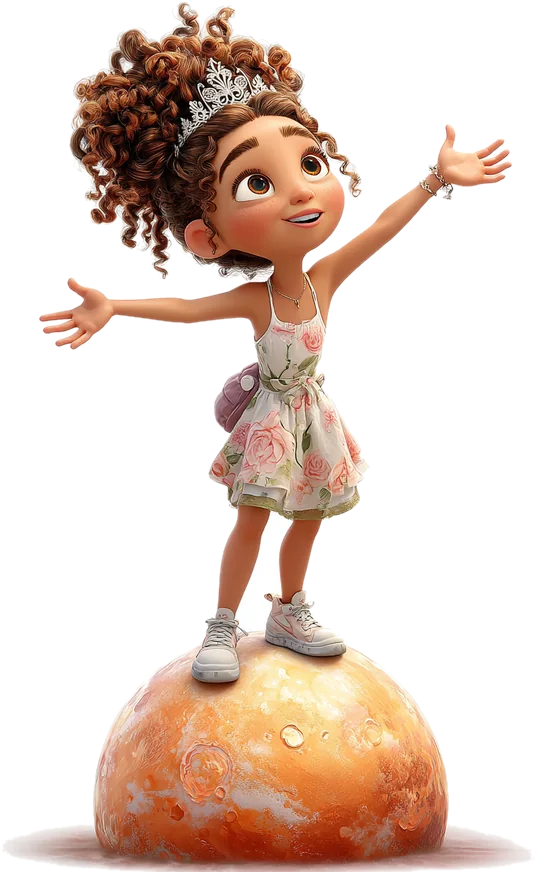
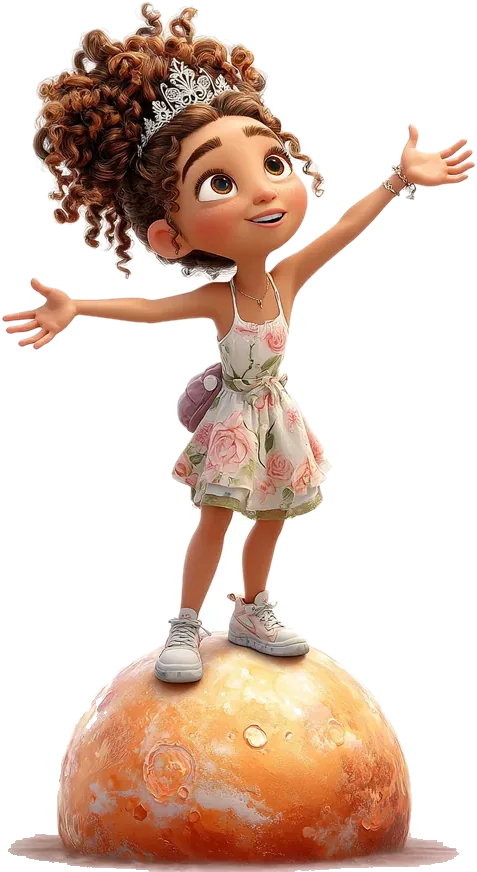
Auditoria: dois bugs corrigidos, codigo morto removido, chegada em Netuno
Bugs achados testando:
- Sair do quiz nos 2 segundos entre acertar e a proxima rodada jogava ela
  na tela de resultado depois, ja fora do jogo. O agendamento agora e
  cancelado ao trocar de tela e checa se o quiz ainda esta no ar.
- Contador de estrelinhas virava "NaN" se o dado gravado no aparelho
  estivesse corrompido. Agora cai pra zero.

Limpeza:
- orbeVetor (o desenhador de planetas em SVG) saiu: os planetas sao
  imagem desde a fase 3
- Os 4 sprites de icone da home sairam: os cartoes usam foto agora
- lara-espaco.webp estava gerada e sem uso — virou a chegada em Netuno,
  ela comemorando em cima de um planeta no fim da Viagem

Changed region(s): [[0.0, 0.0, 0.9979, 1.0], [0.6164, 0.7431, 0.9979, 1.0]]

diff --git a/js/data-espaco.js b/js/data-espaco.js
@@ -121,51 +121,6 @@ var Espaco = (function () {
            'width="' + tam + '" height="' + tam + '" draggable="false" loading="eager">';
   }
 
-  /* --- versão vetorial antiga, guardada como reserva --- */
-  function orbeVetor(astro, tam) {
-    var u = 'a' + (++seq);
-    var brilho = astro.estrela
-      ? '<circle cx="60" cy="60" r="56" fill="url(#glow' + u + ')"/>'
-      : '';
-    var defs = '' +
-      '<clipPath id="cp' + u + '"><circle cx="60" cy="60" r="40"/></clipPath>' +
-      '<radialGradient id="luz' + u + '" cx="33%" cy="27%" r="80%">' +
-        '<stop offset="0" stop-color="#fff" stop-opacity=".45"/>' +
-        '<stop offset="55%" stop-color="#fff" stop-opacity="0"/></radialGradient>' +
-      '<radialGradient id="bor' + u + '" cx="50%" cy="50%" r="50%">' +
-        '<stop offset="62%" stop-color="#000" stop-opacity="0"/>' +
-        '<stop offset="100%" stop-color="#04061A" stop-opacity="' + (astro.estrela ? '.10' : '.55') + '"/></radialGradient>' +
-      (astro.estrela
-        ? '<radialGradient id="glow' + u + '" cx="50%" cy="50%" r="50%">' +
-          '<stop offset="55%" stop-color="#FFD23F" stop-opacity=".55"/>' +
-          '<stop offset="100%" stop-color="#FF8A00" stop-opacity="0"/></radialGradient>'
-        : '');
-
-    var aneisAtras = '', aneisFrente = '';
-    if (astro.aneis) {
-      aneisAtras = '<g transform="rotate(-17 60 60)">' +
-        '<ellipse cx="60" cy="60" rx="57" ry="15" fill="none" stroke="#F0DDB4" stroke-width="7" opacity=".9"/>' +
-        '<ellipse cx="60" cy="60" rx="47" ry="12" fill="none" stroke="#C8A971" stroke-width="3" opacity=".85"/></g>';
-      aneisFrente = '<g transform="rotate(-17 60 60)" clip-path="url(#frente' + u + ')">' +
-        '<ellipse cx="60" cy="60" rx="57" ry="15" fill="none" stroke="#F7E8C6" stroke-width="7"/>' +
-        '<ellipse cx="60" cy="60" rx="47" ry="12" fill="none" stroke="#D8BC85" stroke-width="3"/></g>';
-      defs += '<clipPath id="frente' + u + '"><rect x="-10" y="60" width="140" height="70"/></clipPath>';
-    }
-    if (astro.aneisVerticais) {
-      aneisAtras = '<ellipse cx="60" cy="60" rx="12" ry="55" fill="none" stroke="#BFEFF6" stroke-width="2.5" opacity=".55" transform="rotate(8 60 60)"/>';
-    }
-
-    return '<svg viewBox="0 0 120 120" width="' + tam + '" height="' + tam + '" ' +
-             'xmlns="http://www.w3.org/2000/svg" role="img" aria-label="' + astro.nome + '">' +
-             '<defs>' + defs + '</defs>' + brilho + aneisAtras +
-             '<circle cx="60" cy="60" r="40" fill="' + astro.base + '"/>' +
-             '<g clip-path="url(#cp' + u + ')">' + astro.detalhe() + '</g>' +
-             '<circle cx="60" cy="60" r="40" fill="url(#luz' + u + ')"/>' +
-             '<circle cx="60" cy="60" r="40" fill="url(#bor' + u + ')"/>' +
-             aneisFrente +
-           '</svg>';
-  }
-
   /* Diâmetro real em km e quanto da altura do quadro a bola ocupa em cada
      arte — sem isso a proporção entre os planetas viraria mentira. */
   var REAIS = {
@@ -200,5 +155,5 @@ var Espaco = (function () {
     return null;
   }
 
-  return { ASTROS: ASTROS, REAIS: REAIS, DISTANCIAS: DISTANCIAS, orbe: orbe, orbeVetor: orbeVetor, porId: porId, comArtigo: comArtigo };
+  return { ASTROS: ASTROS, REAIS: REAIS, DISTANCIAS: DISTANCIAS, orbe: orbe, porId: porId, comArtigo: comArtigo };
 })();

diff --git a/index.html b/index.html
@@ -390,42 +390,6 @@
 <!-- sprites -->
 <svg width="0" height="0" style="position:absolute" aria-hidden="true" focusable="false">
   <defs>
-    <symbol id="mini-kid" viewBox="0 0 120 120">
-      <circle cx="60" cy="42" r="26" fill="#FFD9BE"/>
-      <path d="M32 46 C32 16 44 6 60 6 C76 6 88 16 88 46 C83 26 74 20 60 25 C46 30 36 32 32 46 Z" fill="#6B3E26"/>
-      <circle cx="50" cy="44" r="4" fill="#3A2A20"/><circle cx="70" cy="44" r="4" fill="#3A2A20"/>
-      <path d="M52 55q8 7 16 0" stroke="#3A2A20" stroke-width="3.5" fill="none" stroke-linecap="round"/>
-      <path d="M38 112 44 76a17 17 0 0 1 32 0l6 36Z" fill="#FF7BAC"/>
-      <circle cx="34" cy="86" r="7" fill="#FFD9BE"/><circle cx="86" cy="86" r="7" fill="#FFD9BE"/>
-    </symbol>
-    <symbol id="mini-planet" viewBox="0 0 120 120">
-      <circle cx="58" cy="58" r="32" fill="#F5A742"/>
-      <ellipse cx="58" cy="50" rx="24" ry="7" fill="#FFD08A" opacity=".55"/>
-      <ellipse cx="58" cy="68" rx="27" ry="6" fill="#D9762B" opacity=".5"/>
-      <ellipse cx="58" cy="60" rx="52" ry="13" fill="none" stroke="#FFE9B0" stroke-width="6" opacity=".9" transform="rotate(-18 58 60)"/>
-      <circle cx="98" cy="22" r="4" fill="#FFF3C4"/><circle cx="18" cy="26" r="3" fill="#FFF3C4"/>
-      <circle cx="24" cy="98" r="3.5" fill="#FFF3C4"/>
-    </symbol>
-    <symbol id="mini-letras" viewBox="0 0 120 120">
-      <rect x="6" y="34" width="34" height="34" rx="9" fill="#12A87E"/>
-      <rect x="43" y="26" width="34" height="34" rx="9" fill="#2ED3A3"/>
-      <rect x="80" y="34" width="34" height="34" rx="9" fill="#12A87E"/>
-      <text x="23" y="59" font-size="26" font-weight="900" text-anchor="middle" fill="#fff">A</text>
-      <text x="60" y="51" font-size="26" font-weight="900" text-anchor="middle" fill="#08543F">B</text>
-      <text x="97" y="59" font-size="26" font-weight="900" text-anchor="middle" fill="#fff">C</text>
-      <rect x="24" y="82" width="72" height="9" rx="4.5" fill="#fff" opacity=".55"/>
-      <rect x="38" y="97" width="44" height="9" rx="4.5" fill="#fff" opacity=".35"/>
-    </symbol>
-    <symbol id="mini-velha" viewBox="0 0 120 120">
-      <g stroke="#fff" stroke-width="7" stroke-linecap="round" opacity=".65">
-        <path d="M46 16 v88 M74 16 v88 M16 46 h88 M16 74 h88"/>
-      </g>
-      <g stroke="#FFF3B0" stroke-width="8" stroke-linecap="round" fill="none">
-        <path d="M23 23 L39 39 M39 23 L23 39"/>
-        <circle cx="83" cy="83" r="11"/>
-        <path d="M83 23 L99 39 M99 23 L83 39"/>
-      </g>
-    </symbol>
   </defs>
 </svg>
 

diff --git a/js/game.js b/js/game.js
@@ -3,6 +3,7 @@
    ========================================================= */
 var Jogo = (function () {
   var estado = null;
+  var proximaRodada = null;
 
   /* ---------- utilidades ---------- */
   function $(s, raiz) { return (raiz || document).querySelector(s); }
@@ -16,7 +17,10 @@ var Jogo = (function () {
   }
 
   /* ---------- estrelinhas ---------- */
-  function totalEstrelas() { return parseInt(localStorage.getItem('lara.estrelas') || '0', 10); }
+  function totalEstrelas() {
+    var n = parseInt(localStorage.getItem('lara.estrelas'), 10);
+    return (isNaN(n) || n < 0) ? 0 : n;      /* dado corrompido não vira "NaN" na tela */
+  }
   function guardarEstrela() {
     var n = totalEstrelas() + 1;
     localStorage.setItem('lara.estrelas', String(n));
@@ -273,7 +277,10 @@ var Jogo = (function () {
       confete(estado.errouNaRodada ? 10 : 20);
       if (!estado.errouNaRodada) { estado.acertos++; guardarEstrela(); }
 
-      setTimeout(function () {
+      clearTimeout(proximaRodada);
+      proximaRodada = setTimeout(function () {
+        /* se ela saiu do quiz nesses 2 segundos, não arrasta ela pro resultado */
+        if (!document.getElementById('screen-quiz').classList.contains('is-active')) return;
         estado.indice++;
         if (estado.indice >= estado.rodadas.length) terminar();
         else desenharRodada();
@@ -333,6 +340,7 @@ var Jogo = (function () {
   return {
     iniciar: iniciar, tipoAtual: tipoAtual, repetirFala: repetirFala,
     pintarEstrelas: pintarEstrelas, confete: confete, embaralhar: embaralhar,
+    cancelarRodada: function () { clearTimeout(proximaRodada); },
     ganharEstrela: guardarEstrela
   };
 })();

diff --git a/js/app.js b/js/app.js
@@ -83,7 +83,7 @@ var App = (function () {
     var el = document.getElementById(TELAS[nome]);
     if (el) { el.classList.add('is-active'); el.scrollTop = 0; }
     telaAtual = nome;
-    if (nome !== 'quiz') pintarFundo(nome);
+    if (nome !== 'quiz') { pintarFundo(nome); Jogo.cancelarRodada(); }
     Jogo.pintarEstrelas();
   }
 
@@ -316,6 +316,14 @@ var App = (function () {
       parada.addEventListener('click', function () { abrirFicha(astro); });
       pista.appendChild(parada);
     });
+
+    /* a chegada: ela esperando em Netuno, no fim da viagem */
+    var chegada = document.createElement('div');
+    chegada.className = 'viagem-chegada';
+    chegada.style.left = Math.round(Espaco.DISTANCIAS.netuno.milhoes * PX_POR_MILHAO + 180) + 'px';
+    chegada.innerHTML = '<img src="img/lara-espaco.webp" alt="">' +
+                        '<span class="viagem-parada__nome">Chegamos!</span>';
+    pista.appendChild(chegada);
 
     trilha.innerHTML = '';
     trilha.appendChild(pista);

diff --git a/css/style.css b/css/style.css
@@ -728,3 +728,10 @@ button{font:inherit;color:inherit;border:0;background:none;cursor:pointer;touch-
   text-shadow:0 2px 6px rgba(0,0,0,.85)}
 
 .mode--viagem{border-left:8px solid #FF9A1F}
+
+.viagem-chegada{
+  position:absolute;top:50%;transform:translate(-50%,-50%);
+  display:flex;flex-direction:column;align-items:center;gap:8px;
+}
+.viagem-chegada img{height:min(30dvh,210px);width:auto;display:block;
+  filter:drop-shadow(0 12px 26px rgba(0,0,0,.55));animation:float 4s ease-in-out infinite}

diff --git a/sw.js b/sw.js
@@ -1,7 +1,7 @@
 /* Service worker — o app abre offline e se atualiza sozinho.
    Estratégia: entrega o que está em cache na hora (rápido pra criança)
    e, em paralelo, baixa a versão nova pro próximo abrir. */
-var CACHE = 'mundo-da-lara-v13';
+var CACHE = 'mundo-da-lara-v14';
 var ARQUIVOS = [
   './',
   'index.html',
